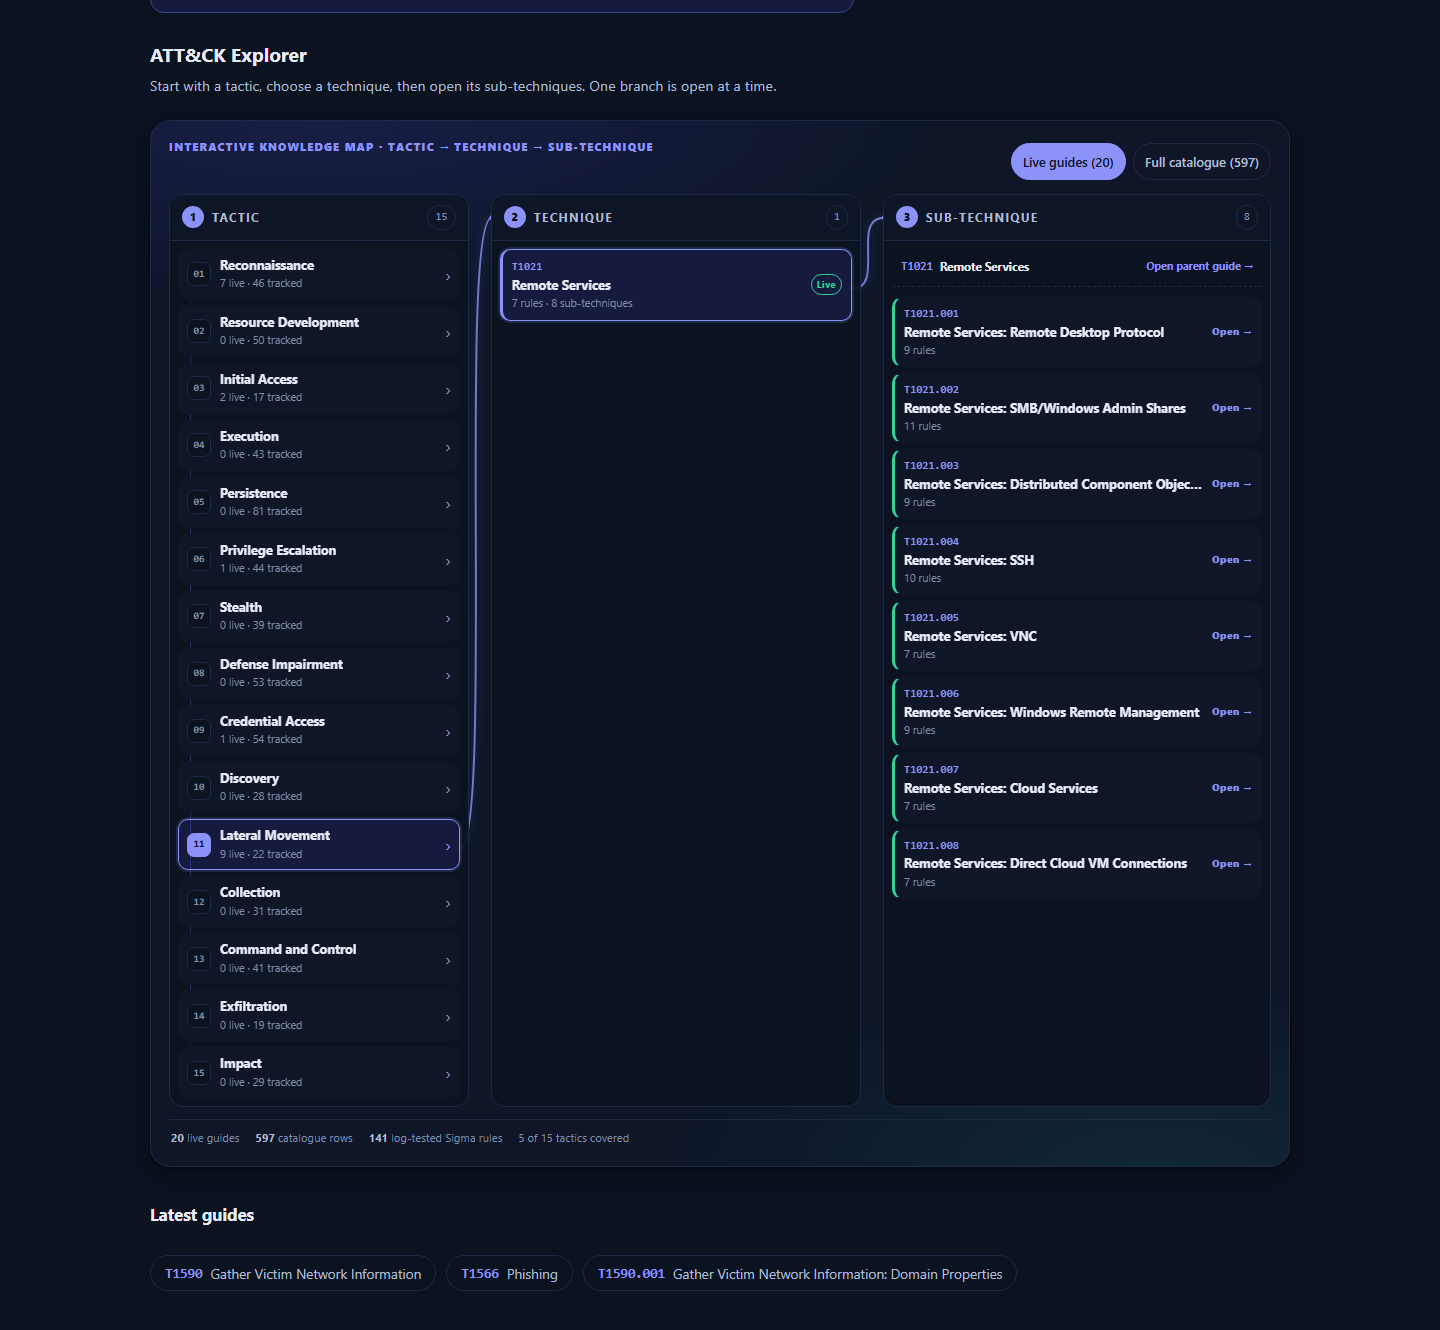
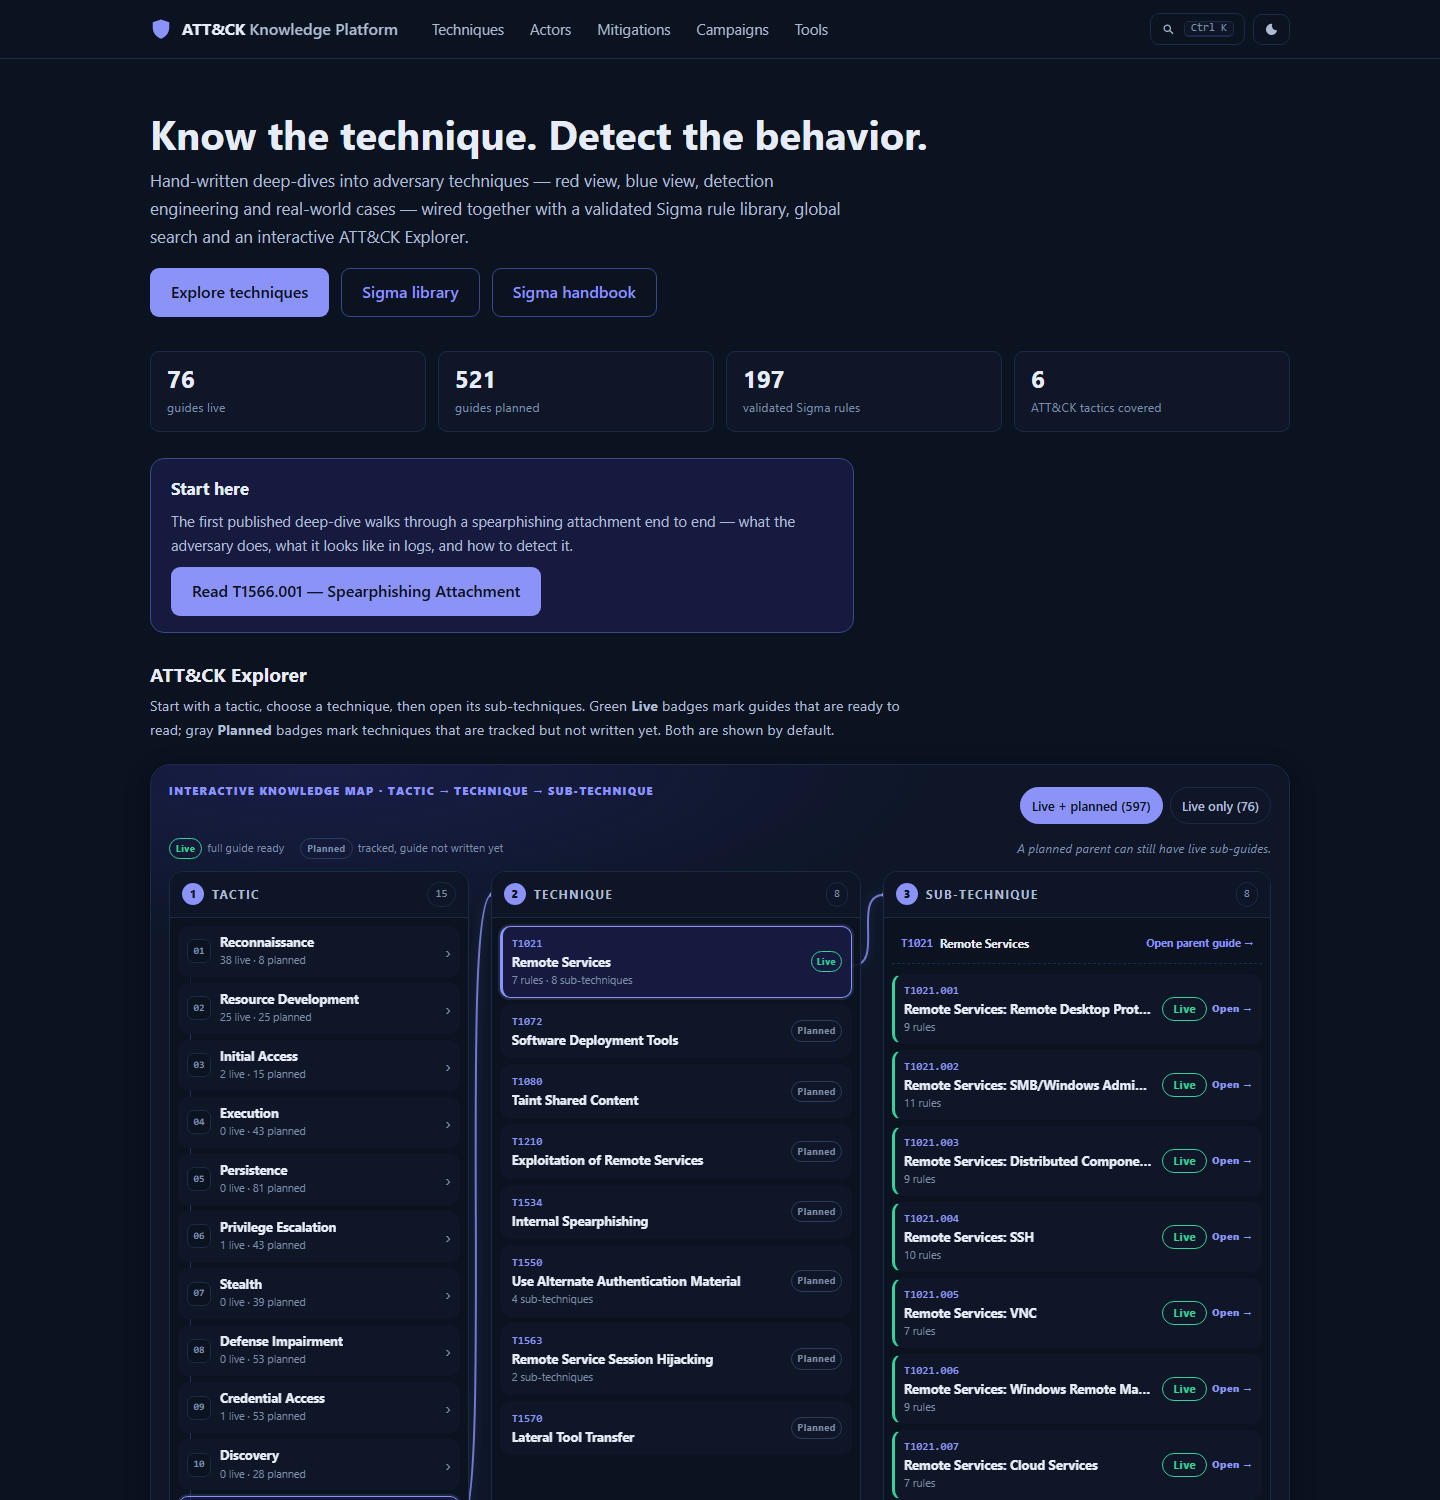
feat(explorer): show live and planned technique status

diff --git a/assets/js/platform.js b/assets/js/platform.js
@@ -277,9 +277,12 @@
       setCount('atk-count-rules', ruleCount);
       setCount('atk-count-tactics', tacticCoverage);
 
-      var mode = 'live';
+      // Show both live and planned techniques by default so the status badges
+      // are visible without hunting through the scope toggle. The v2 key
+      // intentionally ignores the old live-only preference.
+      var mode = 'all';
       try {
-        var savedMode = localStorage.getItem('atk-explorer-mode');
+        var savedMode = localStorage.getItem('atk-explorer-mode-v2');
         if (savedMode === 'live' || savedMode === 'all') mode = savedMode;
       } catch (e) { /* private mode */ }
 
@@ -364,8 +367,9 @@
       function badgeFor(row) {
         if (isLive(row)) return '<span class="atk-badge is-live">Live</span>';
         var n = liveChildren(row.id).length;
-        if (n) return '<span class="atk-badge is-planned">' + n + ' live sub</span>';
-        return '<span class="atk-badge is-planned">Planned</span>';
+        var plannedBadge = '<span class="atk-badge is-planned">Planned</span>';
+        if (n) return plannedBadge + '<span class="atk-badge is-live">' + n + ' live sub</span>';
+        return plannedBadge;
       }
 
       function metaFor(row, withChildren) {
@@ -387,7 +391,7 @@
           '<span class="atk-node-step">' + String(t.order).padStart(2, '0') + '</span>' +
           '<span class="atk-node-body">' +
             '<span class="atk-node-name">' + esc(t.name) + '</span>' +
-            '<span class="atk-node-meta">' + liveRows.length + ' live \u00b7 ' + all.length + ' tracked</span>' +
+            '<span class="atk-node-meta">' + liveRows.length + ' live \u00b7 ' + (all.length - liveRows.length) + ' planned</span>' +
           '</span>' +
           '<span class="atk-node-arrow" aria-hidden="true">\u203a</span>' +
         '</button>';
@@ -414,7 +418,7 @@
         '</span>';
         if (isLive(row)) {
           return '<a class="atk-explorer-node atk-node-sub is-live" href="' + esc(SITE_BASE + row.page) + '">' +
-            body + '<span class="atk-node-tail"><span class="atk-node-open">Open \u2192</span></span></a>';
+            body + '<span class="atk-node-tail"><span class="atk-badge is-live">Live</span><span class="atk-node-open">Open \u2192</span></span></a>';
         }
         return '<div class="atk-explorer-node atk-node-sub is-planned">' +
           body + '<span class="atk-node-tail"><span class="atk-badge is-planned">Planned</span></span></div>';
@@ -564,9 +568,14 @@
           '<div class="atk-explorer-head">' +
             '<p class="atk-explorer-kicker">Interactive knowledge map \u00b7 tactic \u2192 technique \u2192 sub-technique</p>' +
             '<div class="atk-explorer-modes" role="group" aria-label="Explorer scope">' +
-              '<button type="button" class="atk-mode-btn' + (mode === 'live' ? ' is-on' : '') + '" data-explorer-mode="live" aria-pressed="' + (mode === 'live') + '">Live guides (' + live + ')</button>' +
-              '<button type="button" class="atk-mode-btn' + (mode === 'all' ? ' is-on' : '') + '" data-explorer-mode="all" aria-pressed="' + (mode === 'all') + '">Full catalogue (' + (live + planned) + ')</button>' +
+              '<button type="button" class="atk-mode-btn' + (mode === 'all' ? ' is-on' : '') + '" data-explorer-mode="all" aria-pressed="' + (mode === 'all') + '">Live + planned (' + (live + planned) + ')</button>' +
+              '<button type="button" class="atk-mode-btn' + (mode === 'live' ? ' is-on' : '') + '" data-explorer-mode="live" aria-pressed="' + (mode === 'live') + '">Live only (' + live + ')</button>' +
             '</div>' +
+          '</div>' +
+          '<div class="atk-explorer-legend" aria-label="Technique status legend">' +
+            '<span><span class="atk-badge is-live">Live</span> full guide ready</span>' +
+            '<span><span class="atk-badge is-planned">Planned</span> tracked, guide not written yet</span>' +
+            '<span class="atk-legend-note">A planned parent can still have live sub-guides.</span>' +
           '</div>' +
           '<div class="atk-explorer-grid">' +
             '<svg class="atk-explorer-web" aria-hidden="true" focusable="false"></svg>' +
@@ -585,7 +594,8 @@
           '</div>' +
           '<div class="atk-explorer-foot">' +
             '<span><b>' + live + '</b> live guides</span>' +
-            '<span><b>' + (live + planned) + '</b> catalogue rows</span>' +
+            '<span><b>' + planned + '</b> planned</span>' +
+            '<span><b>' + (live + planned) + '</b> total techniques</span>' +
             '<span><b>' + ruleCount + '</b> log-tested Sigma rules</span>' +
             '<span>' + tacticCoverage + ' of ' + ordered.length + ' tactics covered</span>' +
           '</div></div>';
@@ -604,7 +614,7 @@
           var modeBtn = e.target.closest ? e.target.closest('[data-explorer-mode]') : null;
           if (modeBtn) {
             mode = modeBtn.dataset.explorerMode;
-            try { localStorage.setItem('atk-explorer-mode', mode); } catch (err) { /* private mode */ }
+            try { localStorage.setItem('atk-explorer-mode-v2', mode); } catch (err) { /* private mode */ }
             state.technique = null;
             if (mode === 'live' && state.tactic) {
               var liveRoots = rootsFor(state.tactic).filter(visibleRoot);

diff --git a/assets/css/platform.css b/assets/css/platform.css
@@ -781,6 +781,11 @@ html.atk-search-open { overflow: hidden; }
 .atk-explorer-title{margin:0 0 3px;font-size:1.35rem;line-height:1.2}
 .atk-explorer-sub{margin:0;font-size:.84rem;color:var(--text-2);max-width:44rem}
 .atk-explorer-modes{display:flex;gap:7px;flex-wrap:wrap;align-items:center;padding-top:4px}
+.atk-explorer-legend{display:flex;align-items:center;gap:8px 16px;flex-wrap:wrap;margin:0 0 12px;font-size:.7rem;color:var(--text-3)}
+.atk-explorer-legend > span{display:inline-flex;align-items:center;gap:5px}
+.atk-explorer-legend .atk-badge{font-size:.58rem;padding:2px 6px}
+.atk-legend-note{margin-left:auto;font-style:italic}
+@media (max-width:640px){.atk-legend-note{margin-left:0;flex-basis:100%}}
 .atk-explorer-grid{
   display:grid;
   grid-template-columns:minmax(215px,.85fr) minmax(260px,1.05fr) minmax(260px,1.1fr);
@@ -932,5 +937,7 @@ html.atk-search-open { overflow: hidden; }
 @media (max-width:640px){
   .atk-node-name{white-space:normal}
   .atk-node-meta{white-space:normal}
-  .atk-node-tech .atk-badge{display:none}
+  .atk-node-tech .atk-badge{display:inline-flex;font-size:.52rem;padding:1px 4px}
+  .atk-node-tech .atk-node-tail{gap:3px}
+  .atk-node-sub .atk-node-open{display:none}
 }

diff --git a/index.html b/index.html
@@ -47,7 +47,7 @@
 
     <section aria-labelledby="atk-explorer-title">
       <h2 id="atk-explorer-title" style="font-size:1.2rem;margin:26px 0 4px;">ATT&amp;CK Explorer</h2>
-      <p style="color:var(--text-2);font-size:.9rem;margin:0 0 4px;max-width:48rem;">Start with a tactic, choose a technique, then open its sub-techniques. One branch is open at a time.</p>
+      <p style="color:var(--text-2);font-size:.9rem;margin:0 0 4px;max-width:48rem;">Start with a tactic, choose a technique, then open its sub-techniques. Green <b>Live</b> badges mark guides that are ready to read; gray <b>Planned</b> badges mark techniques that are tracked but not written yet. Both are shown by default.</p>
       <div id="atk-explorer"></div>
     </section>
 

diff --git a/README.md b/README.md
@@ -46,8 +46,8 @@ Actions; both are free for public repositories.
   and Sigma rules. Inverted index, ranked results, full keyboard navigation,
   and live guides ranked above catalogue rows.
 - **ATT&CK Explorer**: tactic → technique → sub-technique drill-down with
-  animated connector lines and a live/full-catalogue toggle, so the roadmap
-  never buries the 76 guides that are ready to read.
+  green **Live** and gray **Planned** status badges, a status legend, and a
+  live/planned scope toggle, so the roadmap never hides what is ready to read.
 - **Cross-linked guides** with breadcrumbs, relations (used by / mitigated by /
   detected by) and prev/next within the tactic.
 - **Sigma Rule Library** with level, logsource, tactics, linked technique,

diff --git a/CHANGELOG.md b/CHANGELOG.md
@@ -16,6 +16,8 @@
 
 ### Changed
 
+- ATT&CK Explorer now defaults to Live + planned, with green `Live` and gray
+  `Planned` badges, a status legend, and live/planned counts per tactic.
 - Set all 197 Sigma rules to author `Souhaieb Marzouk`, status
   `experimental`, and practical descriptions and tuning notes.
 - Normalized every rule description to one physical YAML line.
